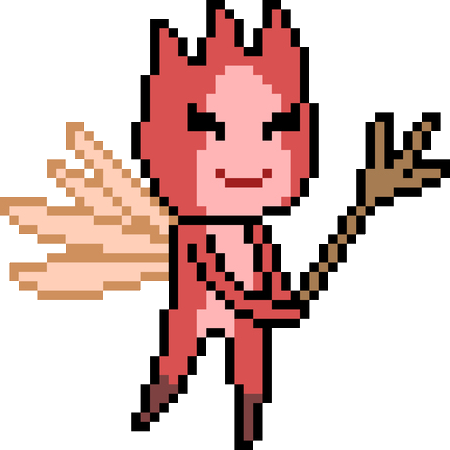
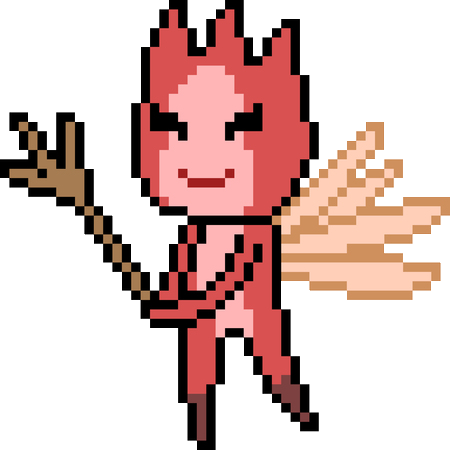
classe jogador

diff --git a/YouTank/Curandeira.cpp b/YouTank/Curandeira.cpp
@@ -3,17 +3,13 @@
 #include "Global.h"
 
 	Curandeira::Curandeira() :
-	Personagem(100, 0, ID_CURANDEIRA),
-	barraVida(static_cast<Personagem*>(this), 25.f, 65.f, 210.f, 25.f, 2),
+	Jogador(100, 0, ID_CURANDEIRA, 65.f, 2),
 	pOrbeCura(NULL)
 {
 	cura = 5;
 	rapidez = 15.f;
 	alturaPulo = 200.f;
 	olhaEsquerda = false;
-	colisaoBot = false;
-	direcao.x = 0.0f;
-	direcao.y = 0.0f;
 	colisaoBot = false;
 	cooldownAtaqueMax = 100.f;
 	cooldownAtaque = cooldownAtaqueMax;
@@ -27,62 +23,7 @@ Curandeira::~Curandeira()
 {
 }
 
-void Curandeira::setDirecao_x(float dir_x)
-{
-	direcao.x = dir_x;
-}
 
-void Curandeira::setDirecao_y(float dir_y)
-{
-	direcao.y = dir_y;
-}
-
-void Curandeira::setOlhaEsquerda(bool x)
-{
-	olhaEsquerda = x;
-}
-
-
-const bool Curandeira::olhandoEsquerda() const
-{
-	return olhaEsquerda;
-}
-
-
-const bool Curandeira::getExisteNaFase() const
-{
-	return aparece;
-}
-
-
-void Curandeira::naColisao()
-{
-	if (direcao.x < 0.0f)
-	{
-		//colisao na esquerda
-		setVelocidadeX(0.0f);
-		colisaoBot = false;
-	}
-	else if (direcao.x > 0.0f)
-	{
-		//colisao na direita
-		setVelocidadeX(0.0f);
-		colisaoBot = false;
-	}
-	if (direcao.y > 0.0f)
-	{
-		//colisao embaixo
-		velocidade.y = 0.0f;
-		podePular = true;
-		colisaoBot = true;
-	}
-	else if (direcao.y < 0.0f)
-	{
-		//colisao em cima
-		velocidade.y = 0.0f;
-		colisaoBot = false;
-	}
-}
 
 void Curandeira::curar(float dir_x, float dir_y, float pos_x, float pos_y)
 {
@@ -90,44 +31,15 @@ void Curandeira::curar(float dir_x, float dir_y, float pos_x, float pos_y)
 	pLista->incluaEntidade(static_cast<Entidade*>(pP));
 }
 
+void Curandeira::update()
+{
+	updateAnimacao();
+	updateTaVivo();
+	barraVida.update();
+}
+
 const int Curandeira::getCura() const
 {
 	return cura;
 }
 
-const bool Curandeira::getColisaoBot() const
-{
-	return colisaoBot;
-}
-
-void Curandeira::renderBarraVida()
-{
-	barraVida.renderBodyBack();
-	barraVida.render();
-}
-
-void Curandeira::update()
-{
-	updateTaVivo();
-	updateAnimacao();
-	barraVida.update();
-}
-
-void Curandeira::updateAnimacao()
-{
-	if (olhaEsquerda == false)
-	{
-		body.setScale(-1.f, 1.f);
-	}
-	//caso esteja andando para a esquerda, vira a imagem
-	if (olhaEsquerda == true)
-	{
-		body.setScale(1.f, 1.f);
-	}
-}
-
-void Curandeira::updateTaVivo()
-{
-	if (vida <= 0)
-		aparece = false;
-}

diff --git a/YouTank/Jogador.cpp b/YouTank/Jogador.cpp
@@ -1,0 +1,112 @@
+#include "stdafx.h"
+#include "Jogador.h"
+
+void Jogador::setDirecao_x(float dir_x)
+{
+	direcao.x = dir_x;
+}
+
+void Jogador::setDirecao_y(float dir_y)
+{
+	direcao.y = dir_y;
+}
+
+Jogador::Jogador(int vida, int dano, int id, int barraVida_y, int player):
+	Personagem(vida, dano, id),
+	colisaoBot(false),
+	barraVida(static_cast<Personagem*>(this), 25.f, barraVida_y, 210.f, 25.f, player)
+{
+	direcao.x = 0.0f;
+	direcao.y = 0.0f;
+}
+
+Jogador::~Jogador()
+{
+}
+
+void Jogador::setOlhaEsquerda(bool x)
+{
+	olhaEsquerda = x;
+}
+
+
+const bool Jogador::olhandoEsquerda() const
+{
+	return olhaEsquerda;
+}
+
+
+const bool Jogador::getExisteNaFase() const
+{
+	return aparece;
+}
+
+
+void Jogador::naColisao()
+{
+	if (direcao.x < 0.0f)
+	{
+		//colisao na esquerda
+		setVelocidadeX(0.0f);
+		colisaoBot = false;
+	}
+	else if (direcao.x > 0.0f)
+	{
+		//colisao na direita
+		setVelocidadeX(0.0f);
+		colisaoBot = false;
+	}
+	if (direcao.y > 0.0f)
+	{
+		//colisao embaixo
+		velocidade.y = 0.0f;
+		podePular = true;
+		colisaoBot = true;
+	}
+	else if (direcao.y < 0.0f)
+	{
+		//colisao em cima
+		velocidade.y = 0.0f;
+		colisaoBot = false;
+	}
+}
+
+void Jogador::update()
+{
+	updateTaVivo();
+	updateAnimacao();
+	barraVida.update();
+}
+
+const bool Jogador::getColisaoBot() const
+{
+	return colisaoBot;
+}
+
+void Jogador::renderBarraVida()
+{
+	barraVida.renderBodyBack();
+	barraVida.render();
+}
+
+
+
+void Jogador::updateAnimacao()
+{
+	if (olhaEsquerda)
+	{
+		body.setScale(1.f, 1.f);
+	}
+	else if (!olhaEsquerda)
+	{
+		body.setScale(-1.f, 1.f);
+	}
+	//caso esteja andando para a esquerda, vira a imagem
+
+}
+
+void Jogador::updateTaVivo()
+{
+	if (vida <= 0)
+		aparece = false;
+}

diff --git a/YouTank/Curandeira.h b/YouTank/Curandeira.h
@@ -1,37 +1,22 @@
 #pragma once
-#include "Personagem.h"
+#include "Jogador.h"
 #include "OrbeCura.h"
 #include "BarraVida.h"
 class Curandeira :
-    public Personagem
+    public Jogador
 {
 private:
-    BarraVida barraVida;
+
     OrbeCura* pOrbeCura;
-    bool colisaoBot;
+   
     int cura;
 public:
     Curandeira();
     ~Curandeira();
 
-
-    void setDirecao_x(float dir_x);
-    void setDirecao_y(float dir_y);
-
-    void setOlhaEsquerda(bool x);
-    const bool olhandoEsquerda() const;
-
-    void naColisao();
     void curar(float dir_x, float dir_y, float pos_x, float pos_y);
+    void update();
 
     const int getCura() const;
-    const bool getColisaoBot() const;
-    const bool getExisteNaFase() const;
-
-    void renderBarraVida();
-
-    void update();
-    void updateAnimacao();
-    void updateTaVivo();
 };
 

diff --git a/YouTank/FadaCaida.h b/YouTank/FadaCaida.h
@@ -1,14 +1,12 @@
 #pragma once
-#include "Personagem.h"
+#include "Jogador.h"
 #include "Orbe.h"
 #include "BarraVida.h"
 
 class FadaCaida :
-    public Personagem
+    public Jogador
 {
 private:
-
-    BarraVida barraVida;
     Orbe* pOrbe;
     bool colisaoBot;
 
@@ -19,24 +17,8 @@ public:
     FadaCaida();
     ~FadaCaida();
 
-    void setOlhaEsquerda(bool x);
-    const bool olhandoEsquerda() const;
-
-    void setDirecao_x(float dir_x);
-    void setDirecao_y(float dir_y);
-    
-    void naColisao();
     void ataca(float dir_x, float dir_y);
-
-    void updateAnimacao();
-    void updateTaVivo();
-    
     void update();
-
-    void renderBarraVida();    
-
-    const bool getColisaoBot() const;
-    const bool getExisteNaFase() const;
    
 };
 

diff --git a/YouTank/Jogador.h b/YouTank/Jogador.h
@@ -1,0 +1,31 @@
+#pragma once
+#include "Personagem.h"
+#include "BarraVida.h"
+class Jogador :
+    public Personagem
+{
+protected:
+    BarraVida barraVida;
+    bool colisaoBot;
+
+public:
+    Jogador(int vida, int dano, int id, int barraVida_y, int player);
+    ~Jogador();
+    void setOlhaEsquerda(bool x);
+    const bool olhandoEsquerda() const;
+
+    void setDirecao_x(float dir_x);
+    void setDirecao_y(float dir_y);
+
+    void naColisao();
+
+    const bool getColisaoBot() const;
+    const bool getExisteNaFase() const;
+
+    void renderBarraVida();
+
+    void update();
+    void updateAnimacao();
+    void updateTaVivo();
+};
+

diff --git a/YouTank/CollisionManager.cpp b/YouTank/CollisionManager.cpp
@@ -153,7 +153,7 @@ bool CollisionManager::verificaColisaoCurandeira(Entidade& entidade)
 
 		//colisao com o favo de mel, diminui a velocidade do jogador
 		if (entidade.getId() == ID_FAVOMEL)
-			pCurandeira->setVelocidadeX(pFadaCaida->getVelocidadeX() * 0.5f);
+			pCurandeira->setVelocidadeX(pCurandeira->getVelocidadeX() * 0.5f);
 		return true;
 	}
 
